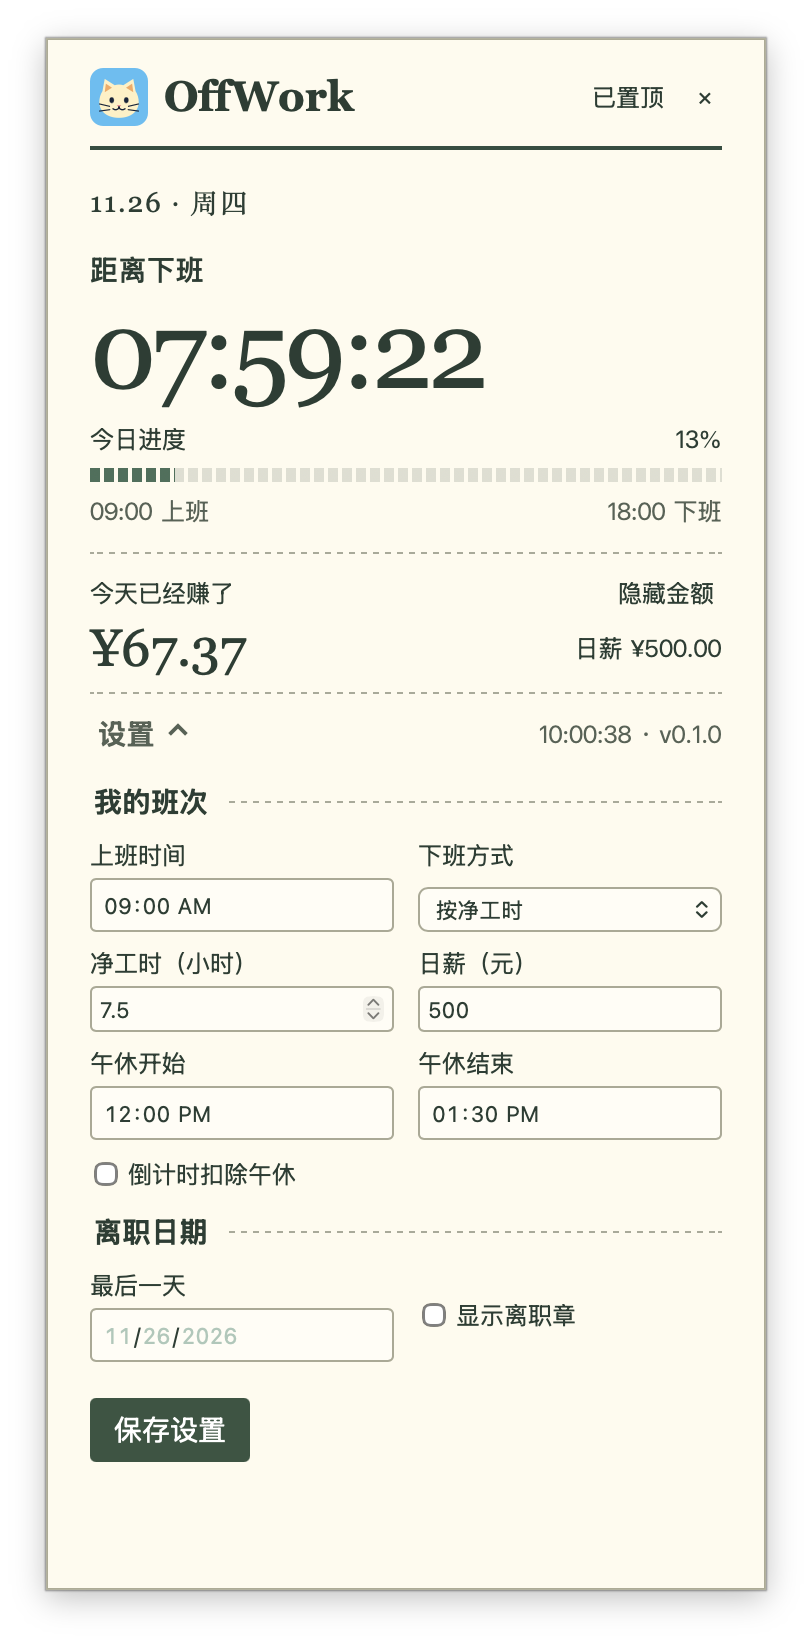
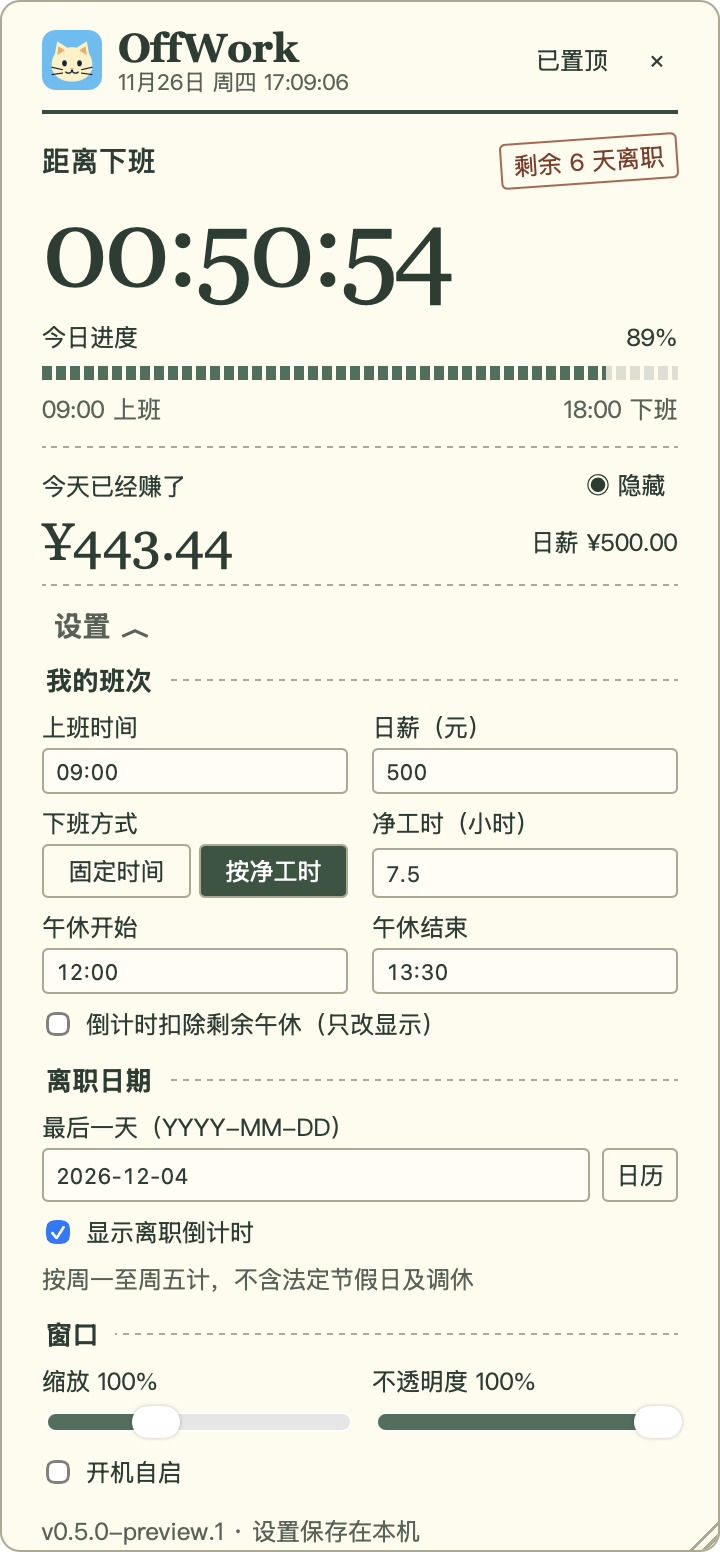
fix: match Windows on UTF-8 BOM INIs, found by the CI profile API cross-check

diff --git a/rust/core/src/legacy.rs b/rust/core/src/legacy.rs
@@ -17,7 +17,8 @@ pub trait Profile {
 
 /// In-memory INI with Win32 profile semantics: case-insensitive section and
 /// key names, first match wins, whitespace trimmed, one pair of matching
-/// quotes stripped, `;` comment lines, UTF-16/UTF-8 BOMs honoured.
+/// quotes stripped, `;` comment lines, UTF-16 BOMs honoured (UTF-8 BOMs are
+/// not, exactly like Windows).
 #[derive(Clone, Debug, Default)]
 pub struct IniText {
     sections: Vec<(String, Vec<(String, String)>)>,
@@ -40,8 +41,9 @@ fn decode(bytes: &[u8]) -> String {
     match bytes {
         [0xff, 0xfe, ..] => utf16(false),
         [0xfe, 0xff, ..] => utf16(true),
-        [0xef, 0xbb, 0xbf, rest @ ..] => String::from_utf8_lossy(rest).into_owned(),
-        // ANSI code page; every value OffWork wrote is ASCII.
+        // ANSI code page; every value OffWork wrote is ASCII. A UTF-8 BOM is
+        // NOT honoured by the profile API (verified against Windows in CI):
+        // it stays glued to the first line, so a leading section is unseen.
         _ => String::from_utf8_lossy(bytes).into_owned(),
     }
 }

diff --git a/rust/core/tests/settings.rs b/rust/core/tests/settings.rs
@@ -255,7 +255,9 @@ fn profile_api_edge_cases() {
         ),
         (600, "2027-01-04", true)
     );
-    // UTF-8 BOM.
-    let s = common::load_bytes(b"\xef\xbb\xbf[work]\nendMinutes=1110\n");
-    assert_eq!(s.end_minutes, 1110);
+    // The profile API does not honour a UTF-8 BOM: the first section is lost,
+    // so 0.4.5 itself saw defaults here and the import must agree.
+    let s =
+        common::load_bytes(b"\xef\xbb\xbf[work]\nendMinutes=1110\n[window]\nscalePercent=120\n");
+    assert_eq!((s.end_minutes, s.scale_percent), (1080, 120));
 }
